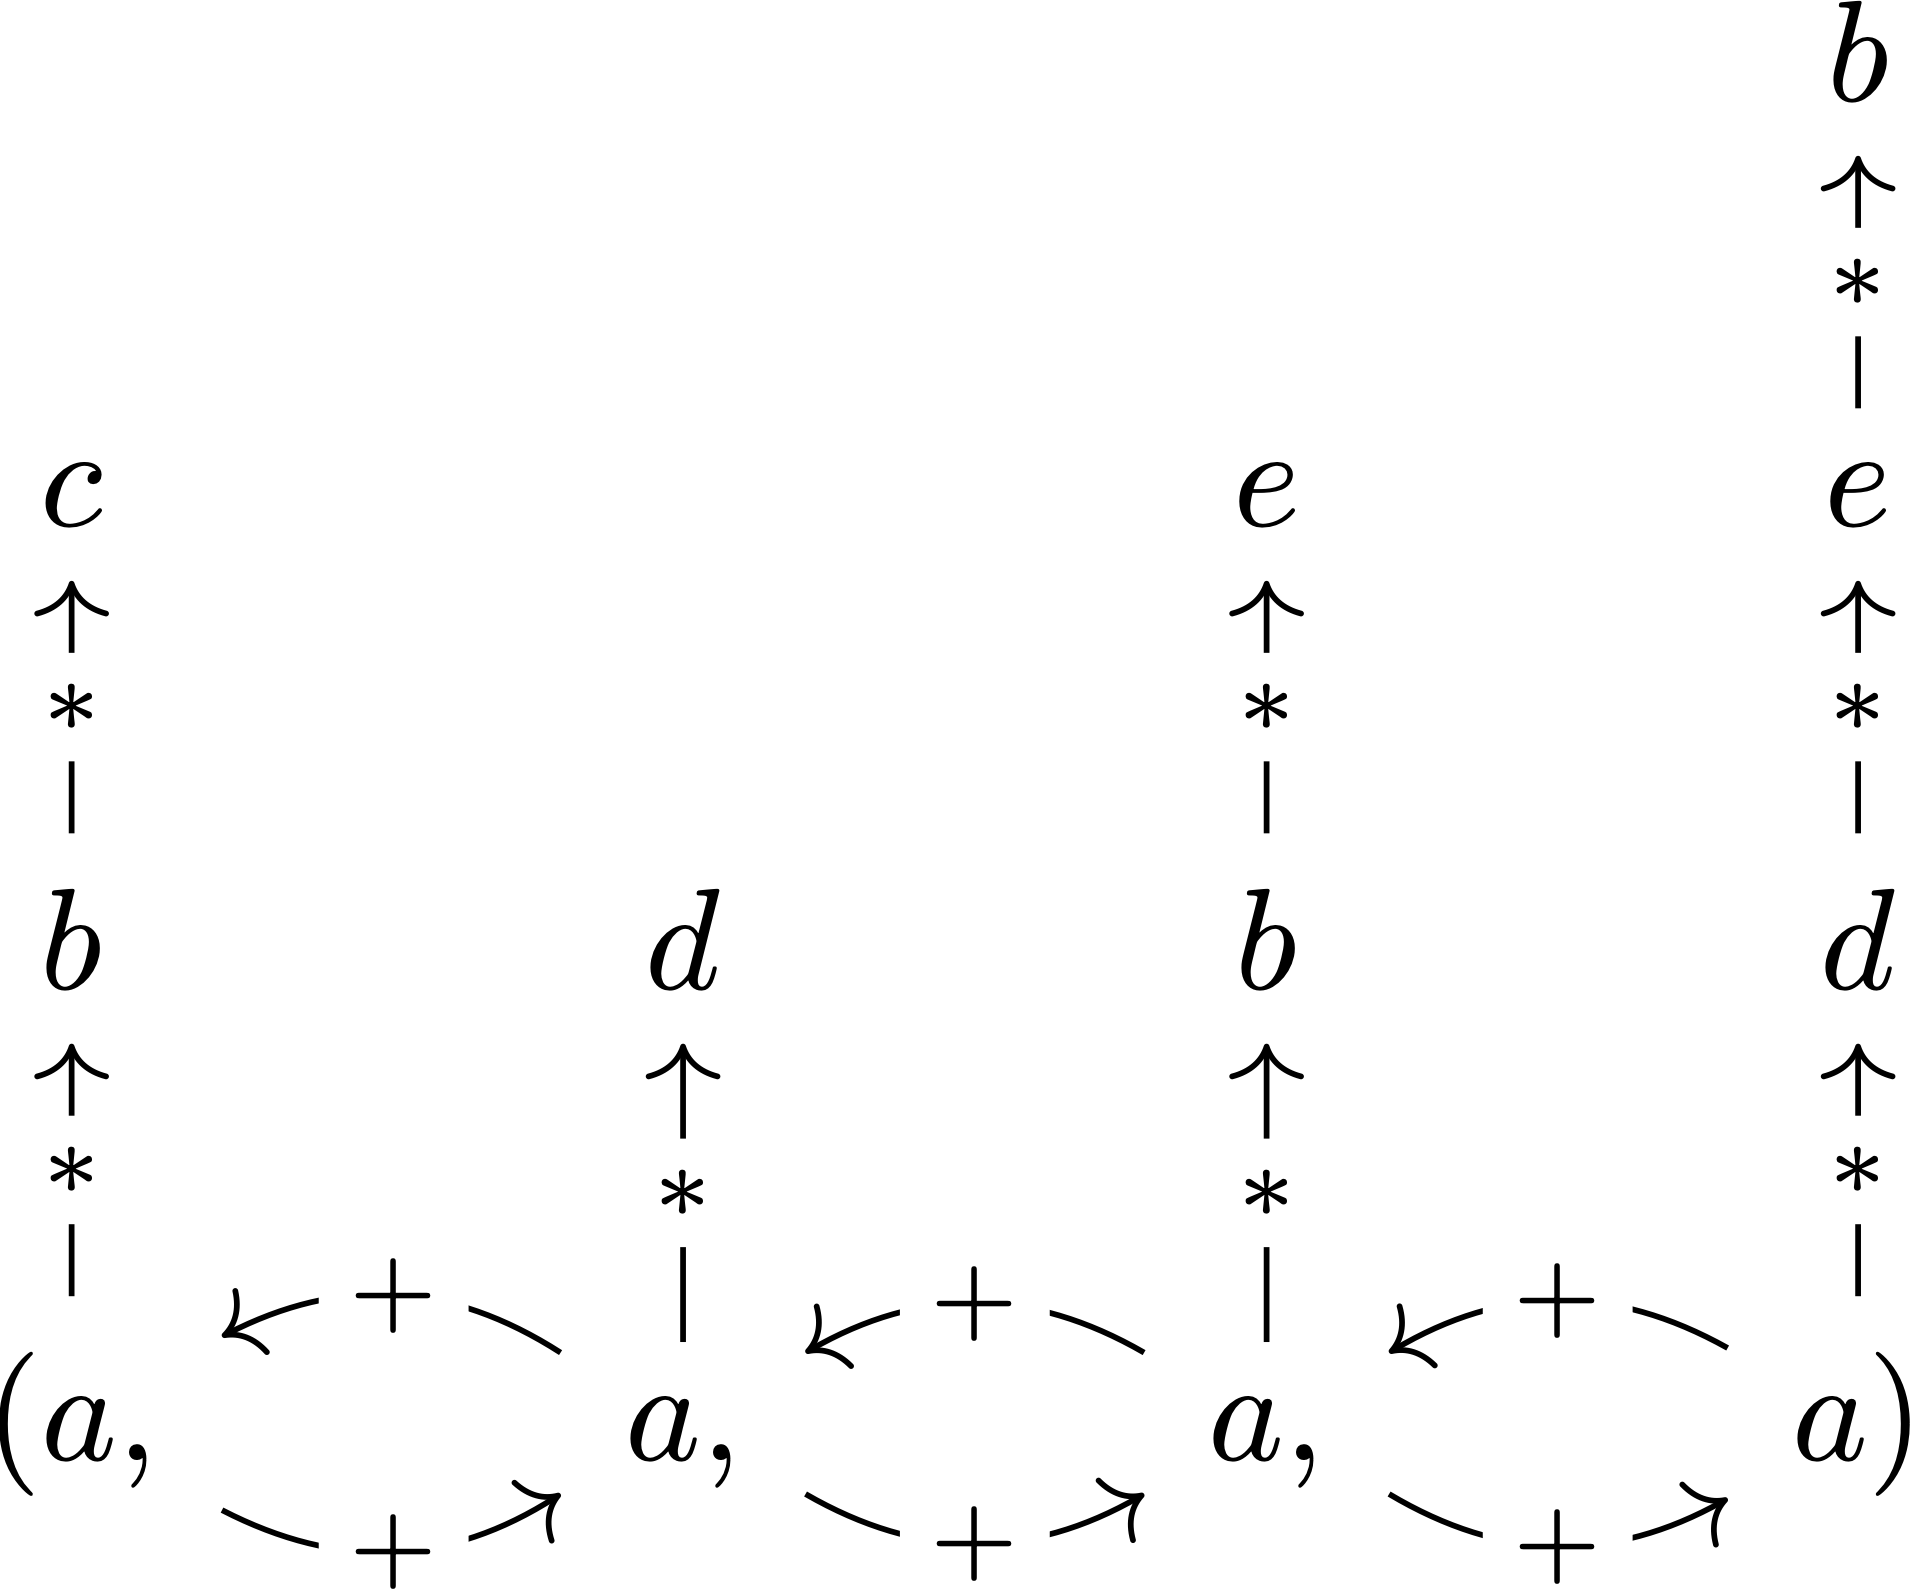
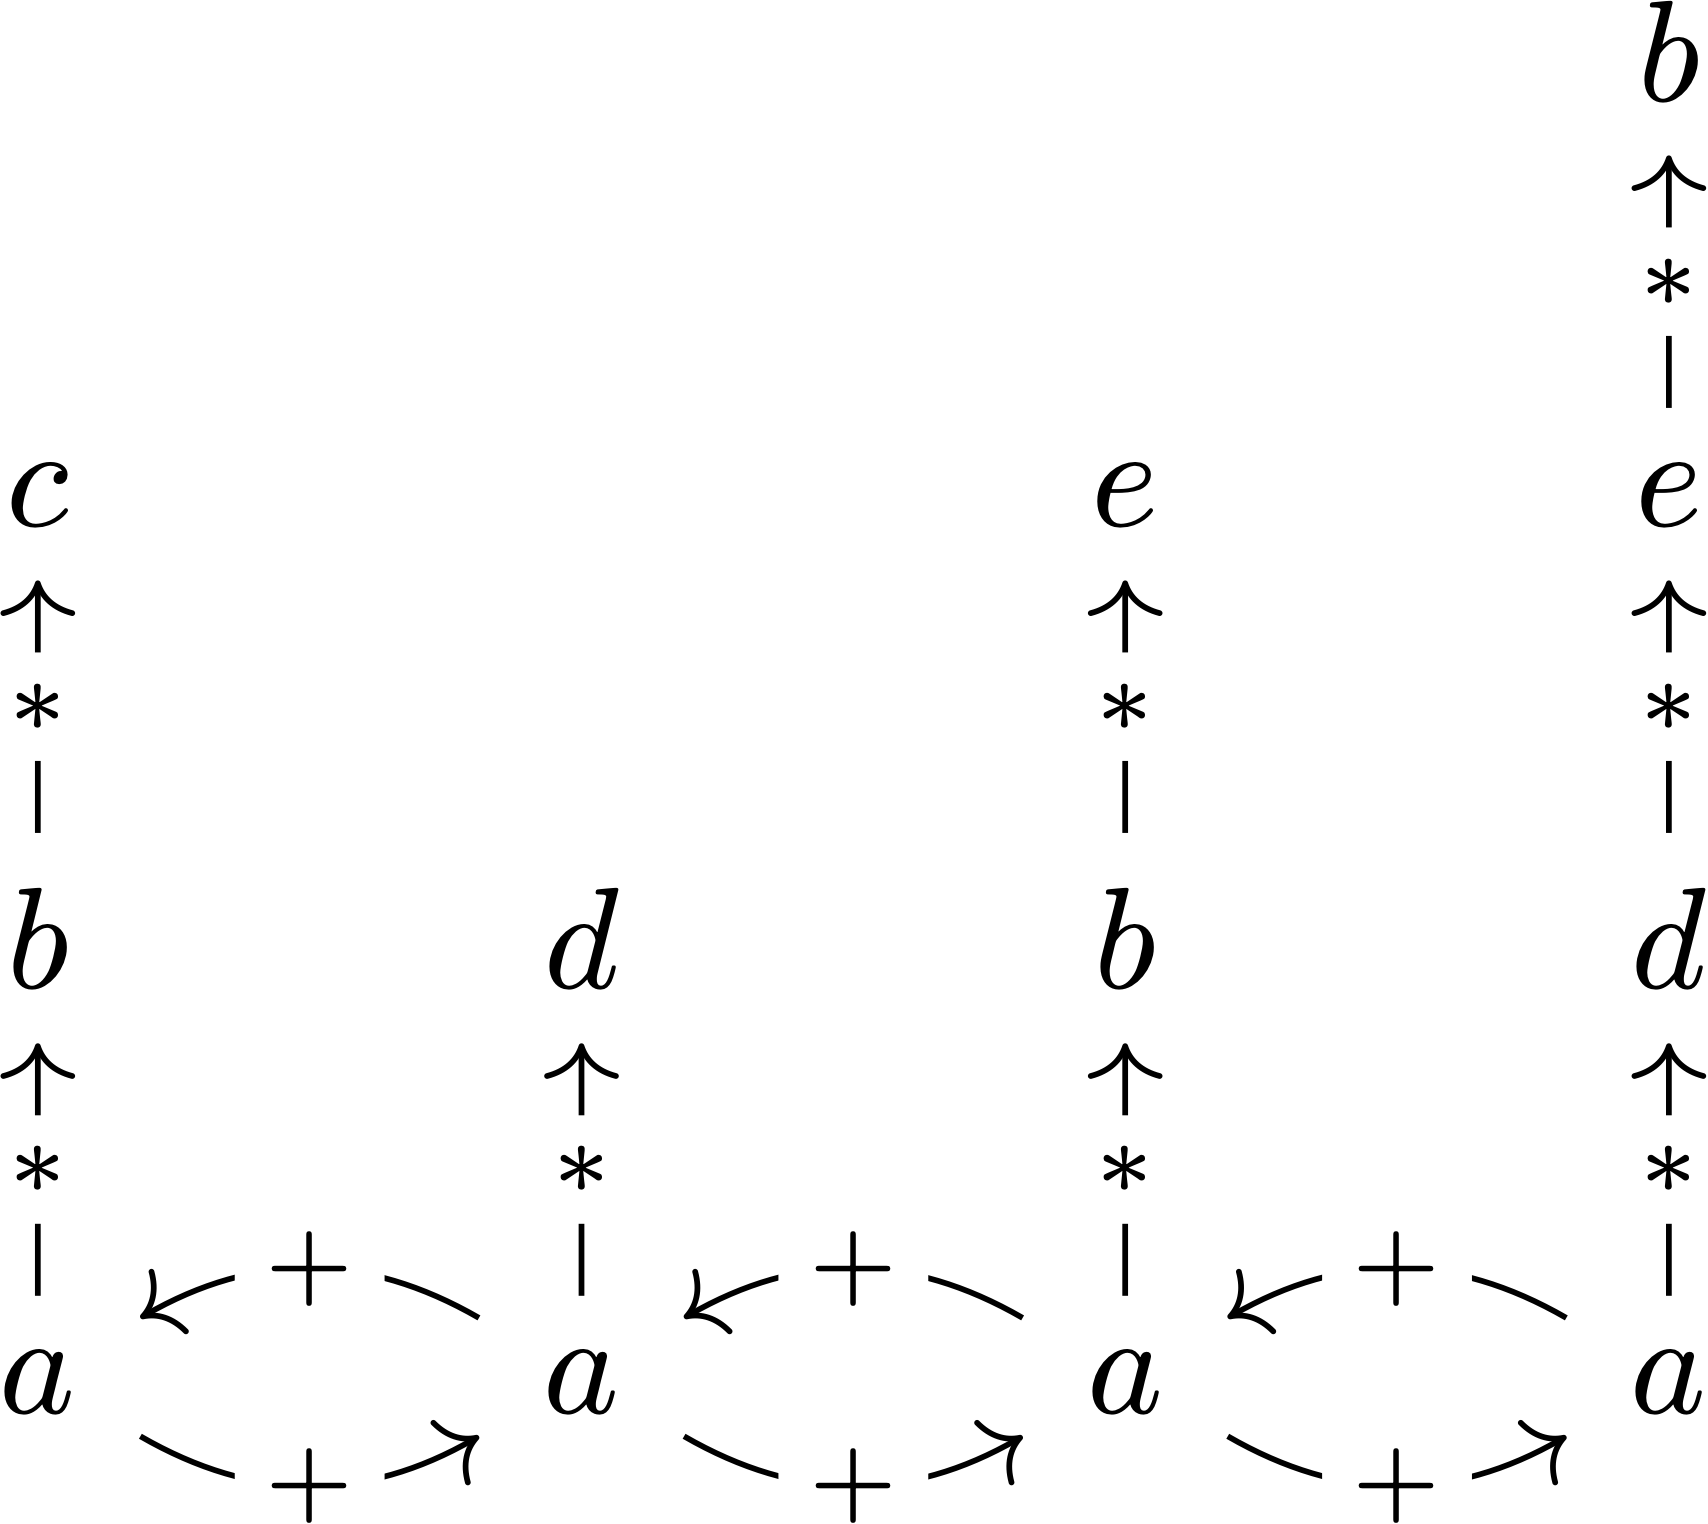
documentation deployed to gh-pages

diff --git a/index.html b/index.html
@@ -1853,25 +1853,25 @@ mmlang&gt; int[is,[gt,10]]                      <i class="conum" data-value="4">
 <td class="tableblock halign-left valign-top"><p class="tableblock"><em>split</em></p></td>
 <td class="tableblock halign-left valign-top"><p class="tableblock"><code>-&lt;</code></p></td>
 <td class="tableblock halign-left valign-top"><p class="tableblock">\$\Delta\$</p></td>
-<td class="tableblock halign-left valign-top"><p class="tableblock">scalar apply</p></td>
+<td class="tableblock halign-left valign-top"><p class="tableblock">scalar <code>*</code></p></td>
 </tr>
 <tr>
 <td class="tableblock halign-left valign-top"><p class="tableblock"><em>merge</em></p></td>
 <td class="tableblock halign-left valign-top"><p class="tableblock"><code>&gt;-</code></p></td>
 <td class="tableblock halign-left valign-top"><p class="tableblock">\$\nabla\$</p></td>
-<td class="tableblock halign-left valign-top"><p class="tableblock">linear combine</p></td>
+<td class="tableblock halign-left valign-top"><p class="tableblock">fold <code>+</code> (linear combine)</p></td>
 </tr>
 <tr>
 <td class="tableblock halign-left valign-top"><p class="tableblock"><em>branch</em></p></td>
 <td class="tableblock halign-left valign-top"><p class="tableblock"><code>[ ]</code></p></td>
 <td class="tableblock halign-left valign-top"><p class="tableblock">\$◊\$</p></td>
-<td class="tableblock halign-left valign-top"><p class="tableblock">scalar apply combine</p></td>
+<td class="tableblock halign-left valign-top"><p class="tableblock">scalar <code>*</code> then fold <code>+</code></p></td>
 </tr>
 <tr>
 <td class="tableblock halign-left valign-top"><p class="tableblock"><em>combine</em></p></td>
 <td class="tableblock halign-left valign-top"><p class="tableblock"><code>=</code></p></td>
 <td class="tableblock halign-left valign-top"><p class="tableblock">\$\cdot\$</p></td>
-<td class="tableblock halign-left valign-top"><p class="tableblock"><code>poly</code> pairwise combine</p></td>
+<td class="tableblock halign-left valign-top"><p class="tableblock">pairwise juxtaposition</p></td>
 </tr>
 </tbody>
 </table>
@@ -1912,30 +1912,33 @@ The reason for the <code>[split]</code> sugar symbol <code>-&lt;</code>, is that
 </table>
 </div>
 <div class="paragraph">
-<p>A polynomial is a <em>linear combination</em> of <em>terms</em> composed of <em>coefficients</em> and <em>indeterminates</em> typically expressed as
+<p>A <a href="https://en.wikipedia.org/wiki/Polynomial">polynomial</a> is a <em>linear combination</em> of <em>terms</em> composed of <em>coefficients</em> and <em>indeterminates</em> typically expressed as
 \[
-p = q_0 x^0 + q_1 x^1 + q_2 x^2 + \ldots + q_n x^n,
+q_0 x^0 + q_1 x^1 + q_2 x^2 + \ldots + q_n x^n,
 \]
 where \$q_i\$ is a coefficient, \$x^i\$ is an indeterminate, \$q_i x^i\$ is a term, and the terms are linearly combined via <code>+</code>.</p>
 </div>
 <div class="paragraph">
-<p>In mm-ADT, the set \$\tt{poly} \subset \tt{obj}\$ are <a href="https://en.wikipedia.org/wiki/Polynomial">polynomials</a> which, in <code>mmlang</code>, are expressions of the form</p>
+<p>In mm-ADT, <code>poly</code> \$\subset\$ <code>obj</code> is the infinite set of polynomials. The polynomial expression above is a <code>,-poly</code> \$\subset\$ <code>poly</code> (pronounced "comma poly") and, in <code>mmlang</code>, are expressions of the form</p>
 </div>
 <div class="paragraph text-center">
 <p><code>(x0{q0},x1{q1},x2{q2},&#8230;&#8203;,xn{qn})</code></p>
 </div>
 <div class="paragraph">
-<p>where <code>qi</code> is a <em>quantifier</em> (coefficient), <code>xi</code> is an <em>object</em> (indeterminate), <code>xi{qi}</code> is an <code>obj</code> (term), and the <code>objs</code> are linearly combined via <code>,</code>. In mm-ADT this structure is known as a <code>,-poly</code> (pronounced "comma poly"). As a data structure, a <code>,-poly</code> is a <a href="https://en.wikipedia.org/wiki/Multiset">multi-set</a> or bag. As an algebraic structure, a <code>,-poly</code> is a <a href="https://en.wikipedia.org/wiki/Polynomial_ring">polynomial ring</a> that faithfully encodes the mm-ADT processor algebra&#8217;s additive and multiplicative <strong>type ringoid</strong> magmas as</p>
+<p>where <code>qi</code> is a <em>quantifier</em> (coefficient), <code>xi</code> is an <em>object</em> (indeterminate), <code>xi{qi}</code> is an <code>obj</code> (term), and the <code>objs</code> are linearly combined via <code>,</code> (addition). If a <code>,-poly</code> is composed of <code>obj</code> values, then due to the commutativity of addition, <code>,-poly</code> is a <a href="https://en.wikipedia.org/wiki/Multiset">multi-set</a> (or bag) data structure. If a <code>,-poly</code> is composed of <code>obj</code> types and values, then the <code>,-poly</code> is a <a href="https://en.wikipedia.org/wiki/Union_(set_theory)">union</a> operator. In this way, every <code>,-poly</code> is either a value <code>,-poly</code> or a type <code>,-poly</code>. Both forms are instances of a more general algebraic structure called a <a href="https://en.wikipedia.org/wiki/Polynomial_ring">polynomial ring</a>. In <a href="https://en.wikipedia.org/wiki/Ring_theory">ring theory</a>, every ring combines an <a href="https://en.wikipedia.org/wiki/Group_(mathematics)">additive group</a> and a multiplicative <a href="https://en.wikipedia.org/wiki/Monoid">monoid</a> by <a href="https://en.wikipedia.org/wiki/Distributive_property">distributivity</a>. The `,-poly&#8217;s group and monoid are</p>
 </div>
 <div class="olist arabic">
 <ol class="arabic">
 <li>
-<p>an additive <a href="https://en.wikipedia.org/wiki/Free_group">free abelian group</a> \$( F\tt{obj},◊,\_{_0}) \$ and</p>
+<p>an additive <a href="https://en.wikipedia.org/wiki/Free_group">free abelian group</a> \$( \tt{obj}^\ast,◊,\bar{\mathbf{0}}) \$ and</p>
 </li>
 <li>
-<p>a multiplicative non-free <a href="https://en.wikipedia.org/wiki/Monoid">monoid</a> \$( \tt{obj},&#8658;,\_{_1}) \$,</p>
+<p>a multiplicative (non-free) monoid \$( \tt{obj},&#8658;,\bar{\mathbf{1}}) \$,</p>
 </li>
 </ol>
+</div>
+<div class="paragraph">
+<p>where <code>obj<sup>*</sup></code> is the <a href="https://en.wikipedia.org/wiki/Kleene_star">Kleene star</a> of <code>obj</code> (i.e. the infinite set of all <code>obj</code> <a href="https://en.wikipedia.org/wiki/Sequence">sequences</a>), \$◊\$ is the <code>[branch]</code> instruction as a binary operator, \$\bar\mathbf{0}\$ is the zero element <code>_{0}</code> (i.e. <code>obj{0}</code>), \$&#8658;\$ is the binary juxtaposition operator, and \$\bar\mathbf{1}\$ is the one element <code>_</code> (or <code>_{1}</code> when displaying the unit quantifier).</p>
 </div>
 <div class="imageblock left">
 <div class="content">
@@ -1943,16 +1946,34 @@ where \$q_i\$ is a coefficient, \$x^i\$ is an indeterminate, \$q_i x^i\$ is a te
 </div>
 </div>
 <div class="paragraph">
-<p>The suggestive illustration to the left depicts an element of a free ring. There are four multiplicative <a href="https://en.wikipedia.org/wiki/Monoid">monoid</a> compositions rooted at \$a\$ with a chain of \$\ast\$-compositions going up and a single additive <a href="https://en.wikipedia.org/wiki/Abelian_group">abelian group</a> element diagrammed left-to-right. As horizontal and vertical compositions, each depicts element(s) of a free magma. An mm-ADT <code>poly</code> forces one magma to remain free (unevalated) and the other to be non-free (evaluated). In particular, as a classic <a href="https://en.wikipedia.org/wiki/Polynomial_ring">polynomial ring</a>, <code>,-poly</code> maintains the free additive group separate from the non-free multiplicative monoid such that the diagram&#8217;s vertical \$\ast\$-compositions would "collapse" yielding 4 terms (<code>objs</code>) isolated by the free additive group and specified in <code>mmlang</code> as</p>
+<p>The suggestive illustration on the left depicts a single element of some (free) ring. There are four multiplicative <a href="https://en.wikipedia.org/wiki/Monoid">monoid</a> compositions diagrammed as vertical chains rooted at an \$a\$. There is single additive <a href="https://en.wikipedia.org/wiki/Abelian_group">abelian group</a> element diagrammed horizontally, reflecting a (commutative) linear combination of the monoid compositions. As 1-dimensional horizontal and vertical structures, each depicts an element of a free magma (group or monoid). Thus, the illustration contains</p>
+</div>
+<div class="olist arabic">
+<ol class="arabic">
+<li>
+<p>four <strong>free monoid</strong> elements&#8201;&#8212;&#8201;<code>(a;b;c)</code>, <code>(a;d)</code>, <code>(a;b;e)</code>, <code>(a;d;e;b)</code>, and</p>
+</li>
+<li>
+<p>one <strong>free group</strong> element&#8201;&#8212;&#8201;<code>((a;b;c),(a;d),(a;b;e),(a;d;e;b))</code>,</p>
+</li>
+</ol>
+</div>
+<div class="paragraph">
+<p>where, in relation to <code>poly</code>, the illustration&#8217;s <code>*</code> is denoted <code>;</code> and <code>+</code> is denoted <code>,</code>.</p>
+</div>
+<div class="paragraph">
+<p>Each mm-ADT <code>poly</code> constrains the general construction of the illustration such that one magma remain free (<strong>unevalated</strong>) and the other non-free (<strong>evaluated</strong>). In particular, as a classic <a href="https://en.wikipedia.org/wiki/Polynomial_ring">polynomial ring</a>, a <code>,-poly</code> maintains a <strong>free additive group</strong> composed of isolated <strong>non-free multiplicative monoids</strong>. Thus, with respects to the illustration, the vertical \$\ast\$-compositions are "collapsed" yielding four terms (<code>objs</code>) that are unable to merge horizontally due to the free nature of the additive group. Thus, the <code>,-poly</code> is suggestively illustrated as</p>
+</div>
+<div class="imageblock text-center">
+<div class="content">
+<img src="./images/language/comma-poly-example.png" alt="comma poly example" width="350">
+</div>
+</div>
+<div class="paragraph">
+<p>and specified in <code>mmlang</code> as</p>
 </div>
 <div class="paragraph text-center">
 <p><code>(abc{q0},ad{q1},abe{q2},adeb{q3})</code>.</p>
-</div>
-<div class="paragraph">
-<p>If the multiplicative monoid compositions yielded values (evaluations) as opposed to types (compilations) and \$x_0 = a(bc)\$, \$x_1 = ad\$, \$x_2 = a(be)\$, and \$x_3 = a(d(eb))\$, then the resultant <code>,-poly</code> structure would be</p>
-</div>
-<div class="paragraph text-center">
-<p><code>(x0{q0},x1{q1},x2{q2},x3{q3})</code>.</p>
 </div>
 <div class="admonitionblock note">
 <table>
@@ -1961,13 +1982,25 @@ where \$q_i\$ is a coefficient, \$x^i\$ is an indeterminate, \$q_i x^i\$ is a te
 <i class="fa icon-note" title="Note"></i>
 </td>
 <td class="content">
-For visual simplicity, quantifiers were not diagrammed. Furthermore, the reason that every term of the multiplicative monoid only has a single quantifier is due to the <em>universal commutativity of coefficients theorem</em> of <a href="https://zenodo.org/record/2565243">stream ring theory</a>. This theorem is used in mm-ADT&#8217;s optimizing compiler and will be discussed at length in a later section of the documentation.
+For visual simplicity, quantifiers are not illustrated. Furthermore, the reason that every term of the multiplicative monoid only has a single quantifier is due to the <em>universal commutativity of coefficients theorem</em> of <a href="https://zenodo.org/record/2565243">stream ring theory</a>. This theorem is used in mm-ADT&#8217;s optimizing compiler and will be discussed at length in a latter section of the documentation.
 </td>
 </tr>
 </table>
 </div>
 <div class="paragraph">
-<p>In general, an mm-ADT <code>poly</code> is used to <em>decouple</em> two algebraic structures such that one is free and the other non-free. From the perspective of applied computing, the free algebras are <a href="https://en.wikipedia.org/wiki/Lazy_evaluation">delayed</a>, unevaluated structures and the non-free algebras are <a href="https://en.wikipedia.org/wiki/Eager_evaluation">eager</a>, evaluated structures. There are three kinds of <code>poly</code>. Each draws their terms from the same <code>obj</code> carrier set and are distinguished, in <code>mmlang</code>, by their respective term separator which denotes a particular "additive" binary operator: <code>,</code> (<em>orThen</em>), <code>|</code> (<em>xorThen</em>), and  <code>;</code> (<em>andThen</em>), where <code>,</code> has a free additive <a href="https://en.wikipedia.org/wiki/Abelian_group">abelian group</a>, <code>|</code> a free additive <a href="https://en.wikipedia.org/wiki/Group_(mathematics)">group</a>, and <code>;</code> a free semicommutative multiplicative <a href="https://en.wikipedia.org/wiki/Monoid">monoid</a>. The general form of each kind of <code>poly</code> is expressed below in <code>mmlang</code>.</p>
+<p>If the multiplicative monoid compositions yielded values (<strong>evaluations</strong>) as opposed to types (<strong>compilations</strong>) and \$x_0 = a(bc)\$, \$x_1 = ad\$, \$x_2 = a(be)\$, and \$x_3 = a(d(eb))\$, then the <code>,-poly</code> is denoted</p>
+</div>
+<div class="paragraph text-center">
+<p><code>(x0{q0},x1{q1},x2{q2},x3{q3})</code>,</p>
+</div>
+<div class="paragraph">
+<p>and with <code>,</code> equivalent to <code>+</code>, the original polynomial expression is realized as
+\[
+q_0 x^0 + q_1 x^1 + q_2 x^2 + q_3 x^3.
+\]</p>
+</div>
+<div class="paragraph">
+<p>In general, an mm-ADT <code>poly</code> is used to <em>decouple</em> two algebraic structures such that one is <strong>free</strong> and the other <strong>non-free</strong>. From the perspective of applied computing, the free algebras are <a href="https://en.wikipedia.org/wiki/Lazy_evaluation">delayed</a>, unevaluated structures and the non-free algebras are <a href="https://en.wikipedia.org/wiki/Eager_evaluation">eager</a>, evaluated structures. There are three kinds of <code>poly</code>. Each draws their terms from the same <code>obj</code> carrier set and are distinguished, in <code>mmlang</code>, by their respective term separator which denotes a particular "additive" binary operator: <code>,</code> (<em>orThen</em>), <code>|</code> (<em>xorThen</em>), and  <code>;</code> (<em>andThen</em>), where <code>,</code> is the operator of a free additive <a href="https://en.wikipedia.org/wiki/Abelian_group">abelian group</a>, <code>|</code> the operator of a free additive <a href="https://en.wikipedia.org/wiki/Group_(mathematics)">group</a>, and <code>;</code> is the operator of a free partially commutative multiplicative <a href="https://en.wikipedia.org/wiki/Monoid">monoid</a>. The general form of each kind of <code>poly</code> is expressed below in <code>mmlang</code>.</p>
 </div>
 <div class="paragraph text-center">
 <p><code>(x0{q0},x1{q1},&#8230;&#8203;,xn{qn})</code><br>
@@ -2015,8 +2048,17 @@ For visual simplicity, quantifiers were not diagrammed. Furthermore, the reason 
 </tr>
 </tbody>
 </table>
-<div class="paragraph">
-<p>The polynomial literature distinguishes <a href="https://en.wikipedia.org/wiki/Univariate">univariate</a> and <a href="https://en.wikipedia.org/wiki/Polynomial#Multivariate_polynomial">multivariate</a> polynomials, where if all the <em>object</em> components of the <code>obj</code> product are equal, then the polynomial is univariate, else it is multivariate. In mm-ADT, multivariate <code>polys</code> are much more common than univariate <code>polys</code>. However, a primary function of the mm-ADT <a href="https://en.wikipedia.org/wiki/Optimizing_compiler">optimizing compiler</a> <code>obj</code> equivalence via <a href="https://en.wikipedia.org/wiki/Rewriting">term rewriting</a> in order to <strong>bulk</strong> <code>objs</code> using the additive and multiplicative operators of the expression&#8217;s associated quantifier ring (i.e. the ring of coefficients).</p>
+<div class="admonitionblock note">
+<table>
+<tr>
+<td class="icon">
+<i class="fa icon-note" title="Note"></i>
+</td>
+<td class="content">
+The polynomial literature distinguishes <a href="https://en.wikipedia.org/wiki/Univariate">univariate</a> and <a href="https://en.wikipedia.org/wiki/Polynomial#Multivariate_polynomial">multivariate</a> polynomials, where if all the <em>object</em> components of the <code>obj</code> product are equal, then the polynomial is univariate, else it is multivariate. In mm-ADT, multivariate <code>polys</code> are much more common than univariate <code>polys</code>. However, a primary function of the mm-ADT <a href="https://en.wikipedia.org/wiki/Optimizing_compiler">optimizing compiler</a> is to deduce <code>obj</code> equivalences via <a href="https://en.wikipedia.org/wiki/Rewriting">term rewriting</a> such that <code>obj</code> <strong>bulking</strong> can occur via the additive and multiplicative operators of the expression&#8217;s associated quantifier ring (i.e. the ring of coefficients).
+</td>
+</tr>
+</table>
 </div>
 <div class="sect4">
 <h5 id="_lst_and_rec">Lst and Rec</h5>
@@ -4787,7 +4829,7 @@ o1    [a,t1]                := t1(o1) != {<span style="color:#00D">0</span>}</co
 </div>
 <div id="footer">
 <div id="footer-text">
-Last updated 2020-07-16 23:58:57 -0600
+Last updated 2020-07-17 00:06:10 -0600
 </div>
 </div>
 <script type="text/x-mathjax-config">
